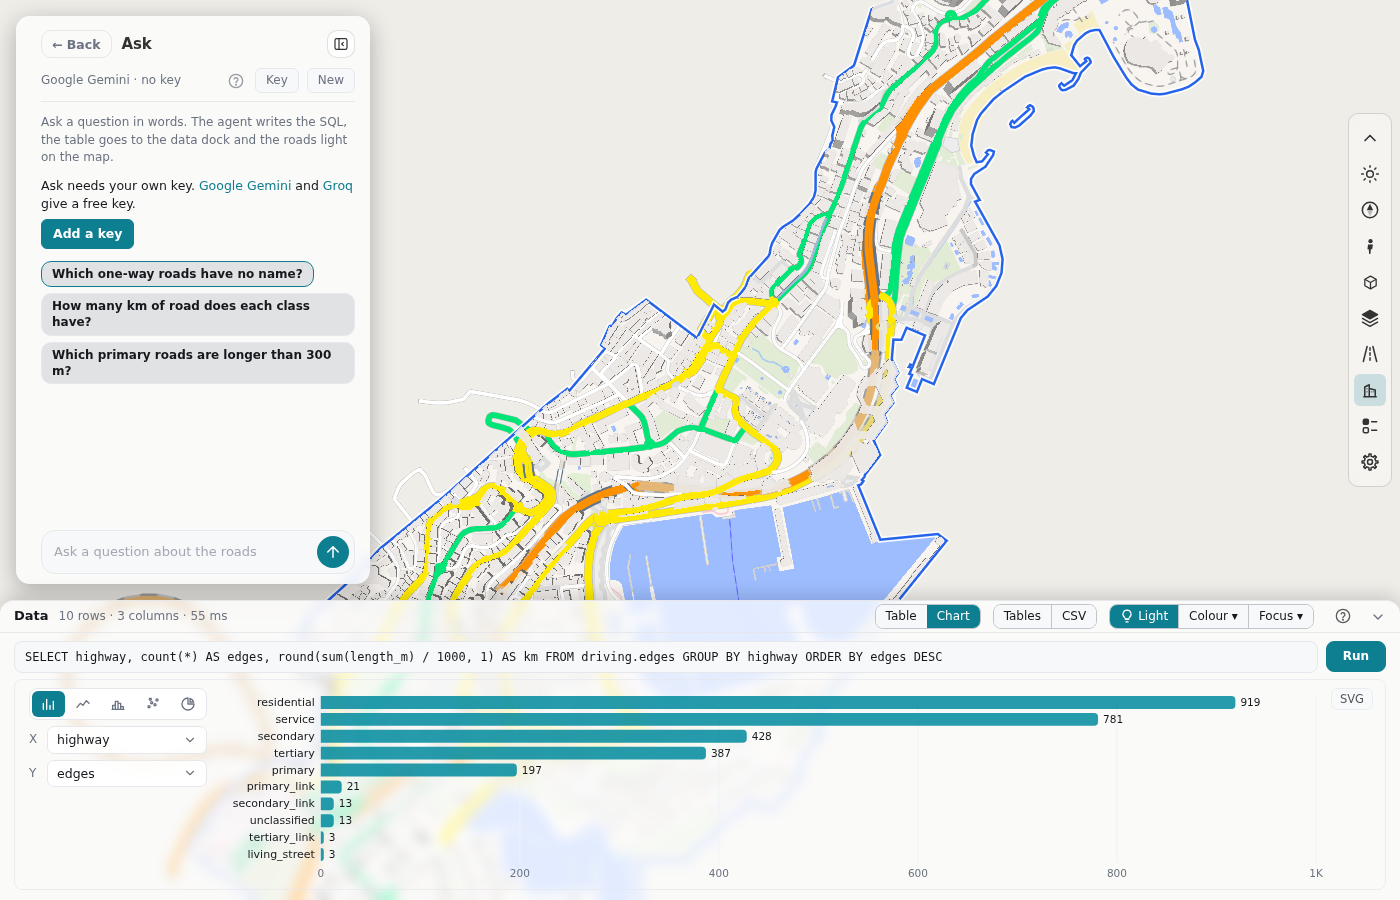
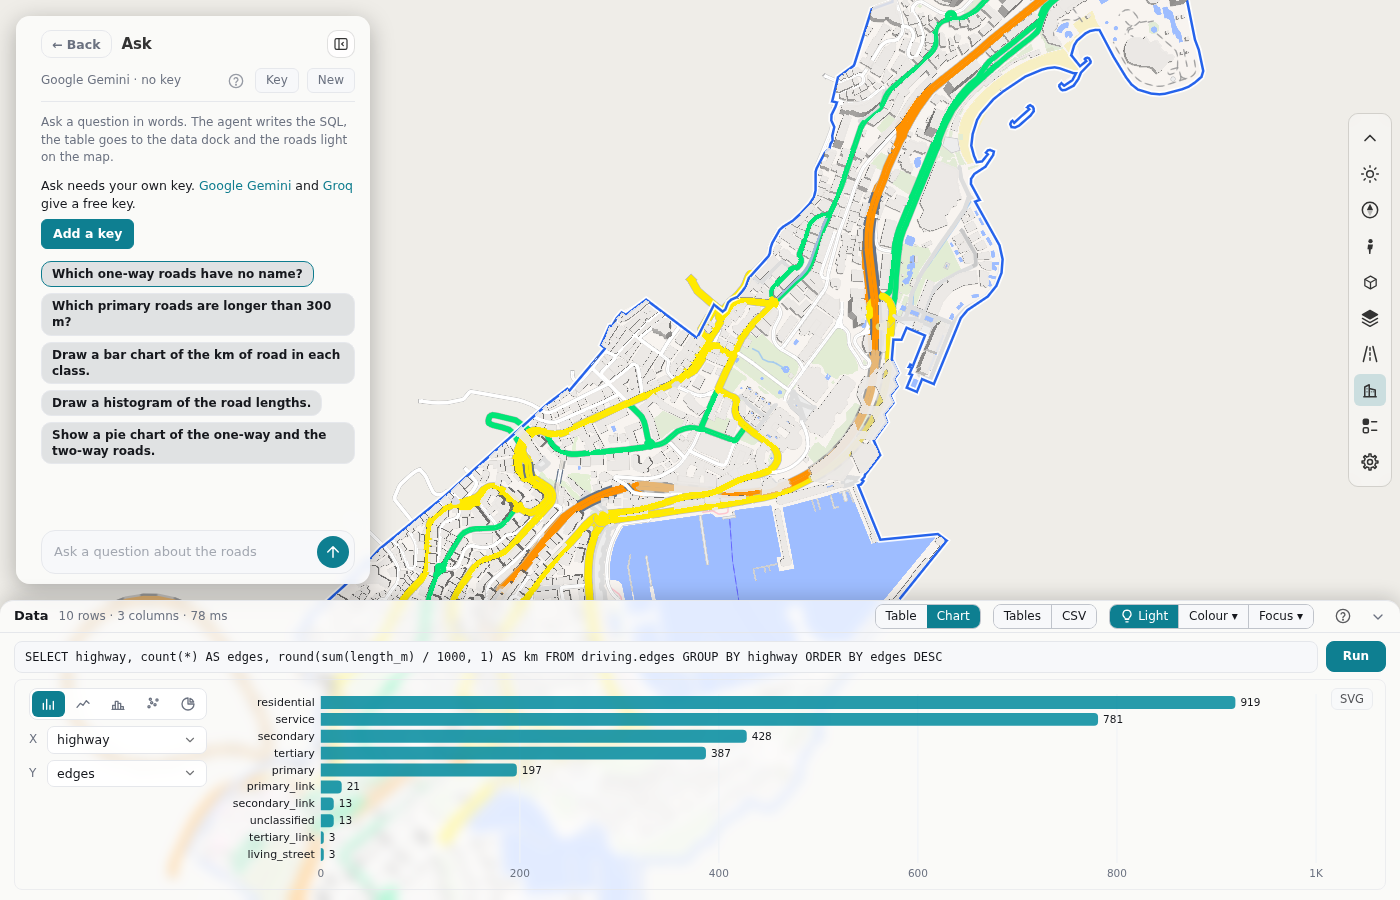
Ask: three example questions that draw a chart
The examples now ask for a bar chart, a histogram and a pie chart. The
manual says how to ask for a chart, and picture 43 shows the new examples.

Changed region(s): [[0.0307, 0.3111, 0.2764, 0.5289]]

diff --git a/crates/duckosm-wasm/www/index.html b/crates/duckosm-wasm/www/index.html
@@ -2507,7 +2507,8 @@ const data = () => dataPart ??= dataDock({
 $("query-tables").onclick = () => data().open();
 const ask = () => askPart ??= askPanel({ data: data(), dialect: "DuckDB",
   about: "The road networks of one area, built by duckOSM from OpenStreetMap. Each network is a schema: driving, walking and cycling. In a network, edges has one row for each direction of a road; edge_id is its id, osm_id the OSM way. The map draws the roads by edge_id.",
-  examples: ["Which one-way roads have no name?", "How many km of road does each class have?", "Which primary roads are longer than 300 m?"] });
+  examples: ["Which one-way roads have no name?", "Which primary roads are longer than 300 m?", "Draw a bar chart of the km of road in each class.",
+    "Draw a histogram of the road lengths.", "Show a pie chart of the one-way and the two-way roads."] });
 Object.defineProperties(window, { dataPart: { get: data }, askPart: { get: ask } });   // for the tests
 rs.sections.add({ id: "ask", label: "Ask the data", note: "A question about the roads, in words", open: () => ask().open(), icon: "ask", background: true, after: "step6" });
 

diff --git a/docs/manual/ask.md b/docs/manual/ask.md
@@ -46,6 +46,8 @@ Only one `SELECT` or `WITH` statement runs. The dock refuses a statement that ch
 3. Click **Key**, select the service, paste the key and click **Save**.
 4. Write a question, for example "Which primary roads are longer than 300 m?". Press **Enter**.
 
+To get a chart, ask for it, for example "Draw a bar chart of the km of road in each class.". Ask draws the chart in the data dock. Ask can draw a bar, line, histogram, scatter or pie chart.
+
 Each answer shows its SQL. **Show** puts the table of the answer in the data dock again. **New** starts a new conversation. If the service is busy, try again in a minute or select another service.
 
 ### Your key and your data
